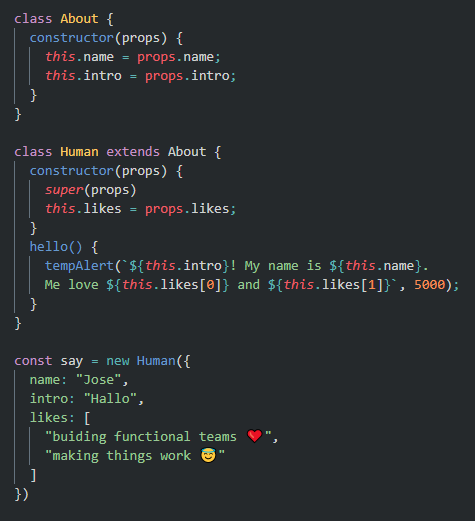
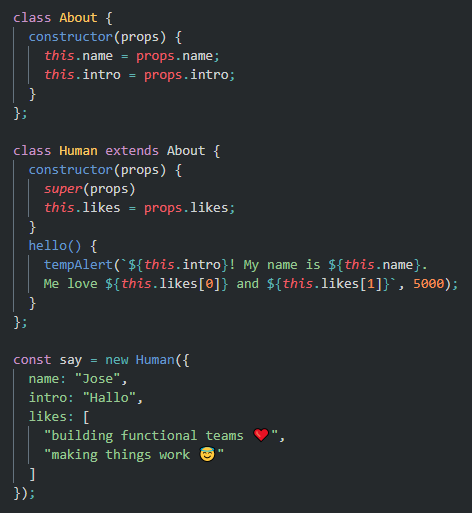
Fix(frontend): fix typo and syntax

diff --git a/src/components/About/hello.js b/src/components/About/hello.js
@@ -3,7 +3,7 @@ class About {
     this.name = props.name;
     this.intro = props.intro;
   }
-}
+};
 
 class Human extends About {
   constructor(props) {
@@ -13,16 +13,16 @@ class Human extends About {
   hello() {
     tempAlert(`${this.intro}! My name is ${this.name}. Me love ${this.likes[0]} and ${this.likes[1]}`, 5000);
   }
-}
+};
 
 const say = new Human({
   name: "Jose",
   intro: "Hallo",
   likes: [
-    "buiding functional teams ❤",
+    "building functional teams ❤",
     "making things work 😇"
   ]
-})
+});
 
 function tempAlert(message, duration) {
   let p = document.createElement('p');
